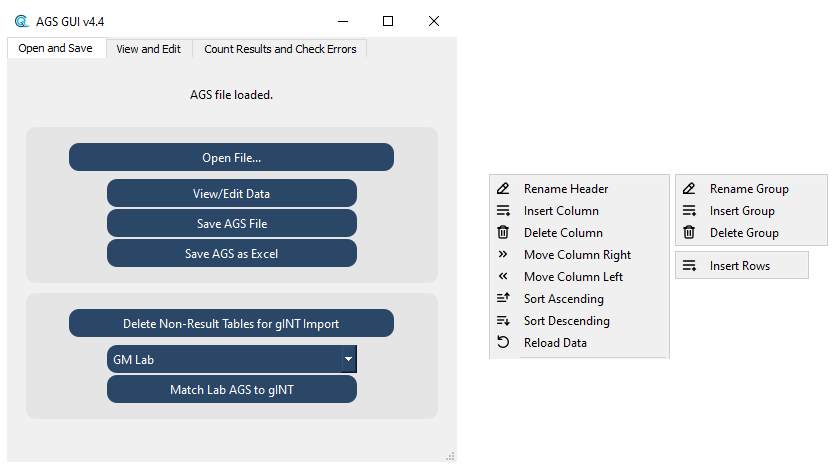
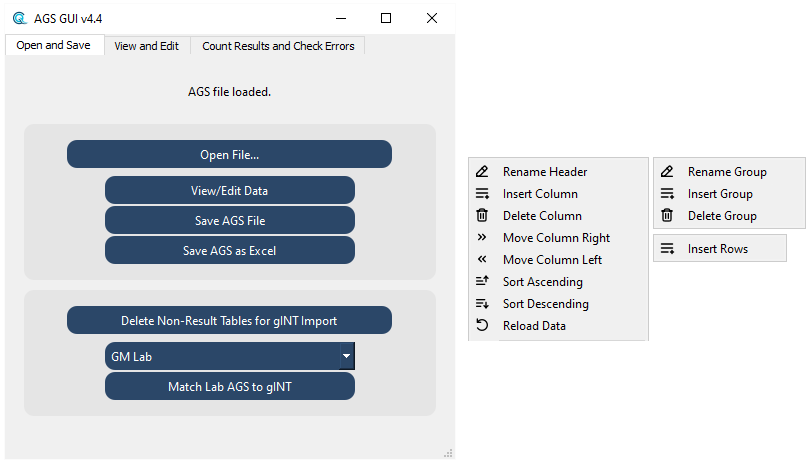
Bugfixes

diff --git a/common/AGS_GUI.py b/common/AGS_GUI.py
@@ -16,7 +16,7 @@ import time
 import webbrowser
 import warnings
 warnings.filterwarnings("ignore")
-#QApplication.setHighDpiScaleFactorRoundingPolicy(QtCore.Qt.HighDpiScaleFactorRoundingPolicy.PassThrough) 
+QApplication.setHighDpiScaleFactorRoundingPolicy(QtCore.Qt.HighDpiScaleFactorRoundingPolicy.PassThrough) 
 QtCore.QCoreApplication.setAttribute(QtCore.Qt.AA_EnableHighDpiScaling, True)
 QtWidgets.QApplication.setAttribute(QtCore.Qt.AA_UseHighDpiPixmaps, True)
 
@@ -1904,12 +1904,14 @@ Did you select the correct gINT or AGS?''')
 Click "Save AGS file"''')
             QApplication.processEvents()
             print("CPT Data export ready. Click 'Save AGS file'.")
+            self.setup_tables()
 
         else:
             self.text.setText('''Could not find any CPT tables.
 Check the AGS with "View data".''')
             QApplication.processEvents()
             print("No CPT groups found - did this AGS contain CPT data? Check the data with 'View data'.")
+            self.setup_tables()
 
     
     def get_lab_tables(self):
@@ -1946,6 +1948,7 @@ Click "Save AGS file"''')
             QApplication.processEvents()
             print("Lab Data & GEOL export ready. Click 'Save AGS file'.")
             self.ags_table_reset()
+            self.setup_tables()
 
         else:
             self.text.setText('''Could not find any Lab or GEOL tables.
@@ -1953,6 +1956,7 @@ Check the AGS with "View data".''')
             QApplication.processEvents()
             print("No Lab or GEOL groups found - did this AGS contain CPT data? Check the data with 'View data'.")
             self.ags_table_reset()
+            self.setup_tables()
 
     
     def convert_excel(self):
@@ -2079,8 +2083,8 @@ Saving AGS to excel file...
         
         self.config['Window']['width'] = width
         self.config['Window']['height'] = height
-        # with open('common/assets/settings.ini', 'w') as configfile: 
-        #     self.config.write(configfile)
+        with open('common/assets/settings.ini', 'w') as configfile: 
+            self.config.write(configfile)
         self.resizing = False
     
     def set_size(self):
